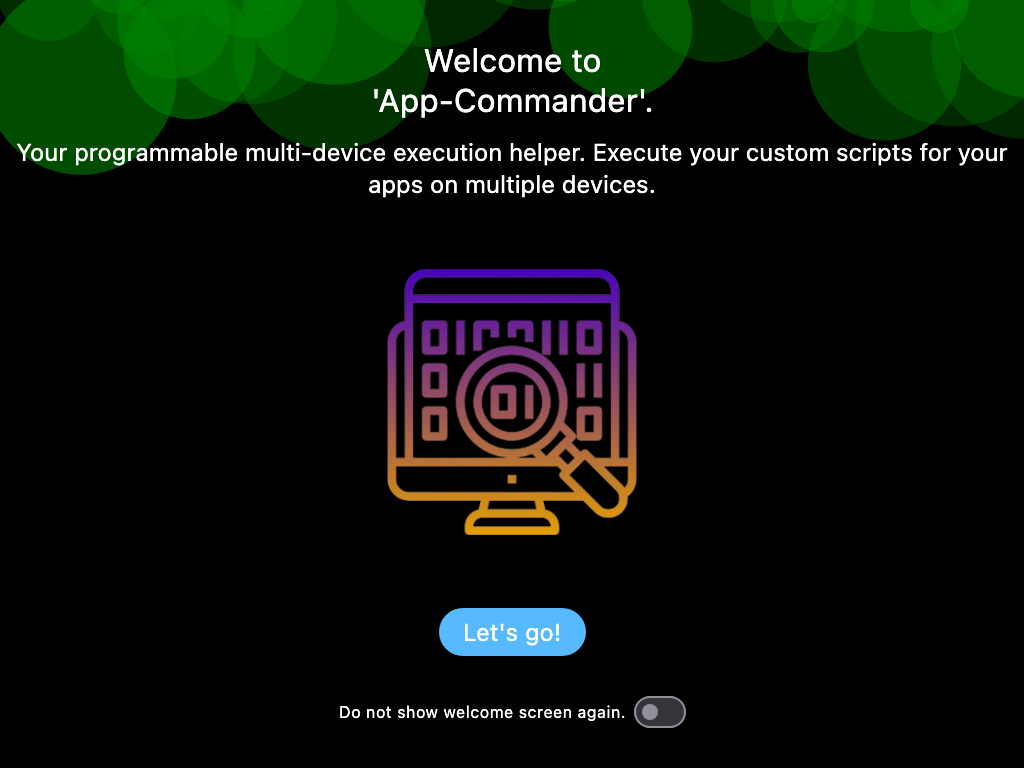
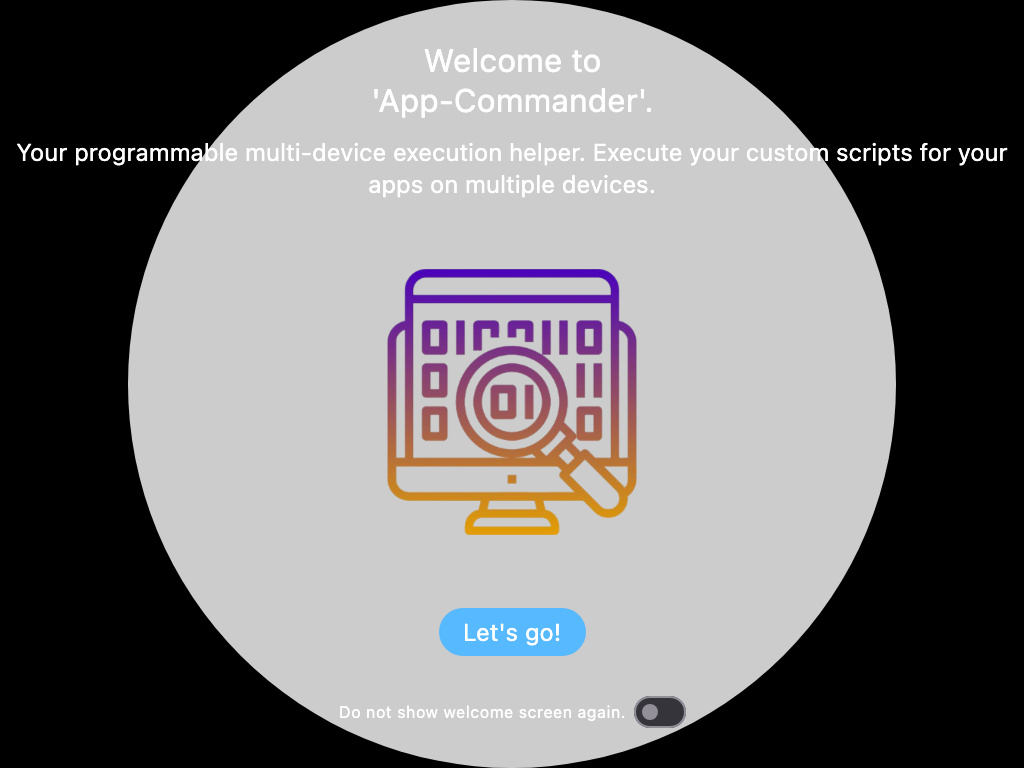
Fix/Improve

diff --git a/composeApp/src/commonTest/kotlin/de/joz/appcommander/ui/welcome/WelcomeScreenTest.kt b/composeApp/src/commonTest/kotlin/de/joz/appcommander/ui/welcome/WelcomeScreenTest.kt
@@ -1,5 +1,8 @@
 package de.joz.appcommander.ui.welcome
 
+import androidx.compose.ui.geometry.Size
+import androidx.compose.ui.graphics.Color
+import androidx.compose.ui.graphics.drawscope.DrawScope
 import androidx.compose.ui.test.ComposeUiTest
 import androidx.compose.ui.test.ExperimentalTestApi
 import androidx.compose.ui.test.assertHasClickAction
@@ -14,6 +17,7 @@ import de.joz.appcommander.domain.PreferencesRepository
 import de.joz.appcommander.helper.PreferencesRepositoryMock
 import de.joz.appcommander.helper.screenshot.ScreenshotVerifier
 import de.joz.appcommander.ui.theme.AppCommanderTheme
+import de.joz.appcommander.ui.welcome.bubble.BubblesStrategy
 import io.mockk.mockk
 import io.mockk.verify
 import kotlinx.coroutines.test.runTest
@@ -145,7 +149,11 @@ class WelcomeScreenTest {
 								navController = navController,
 								savePreferenceUseCase = koin.get(),
 							),
-						bubblesStrategy = koin.get(),
+						bubblesStrategy =object : BubblesStrategy {
+							override fun drawBubbles(drawScope: DrawScope, size: Size, step: Float) {
+								drawScope.drawCircle(Color.LightGray)
+							}
+						},
 					)
 				},
 			)
